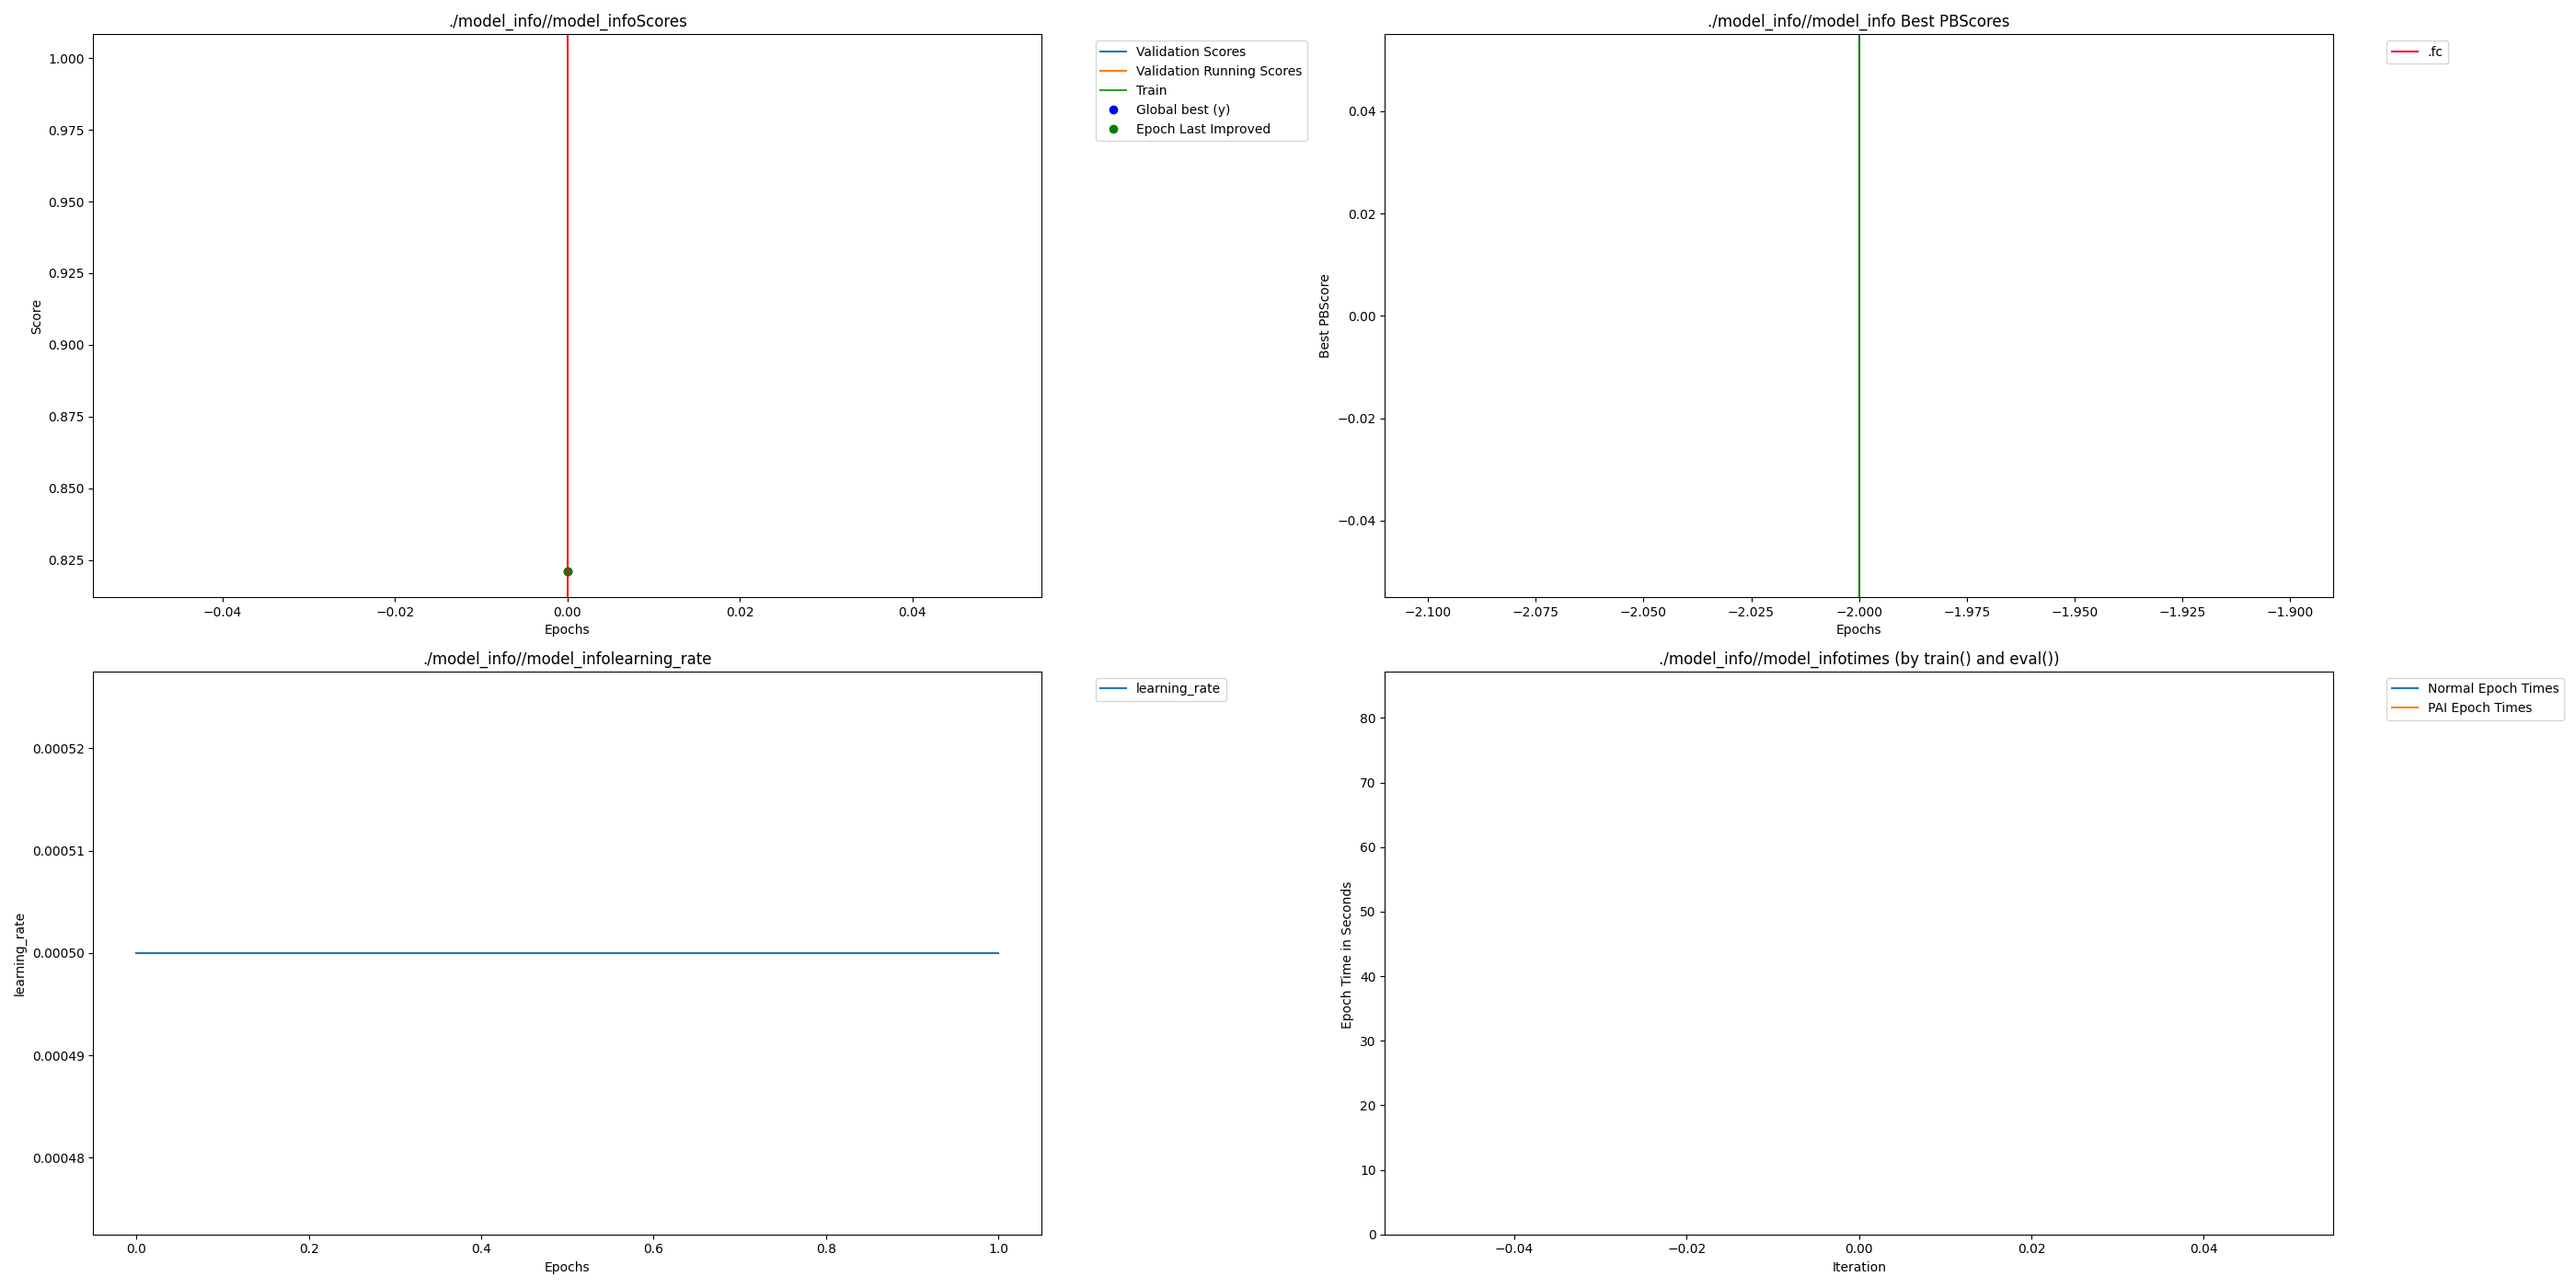
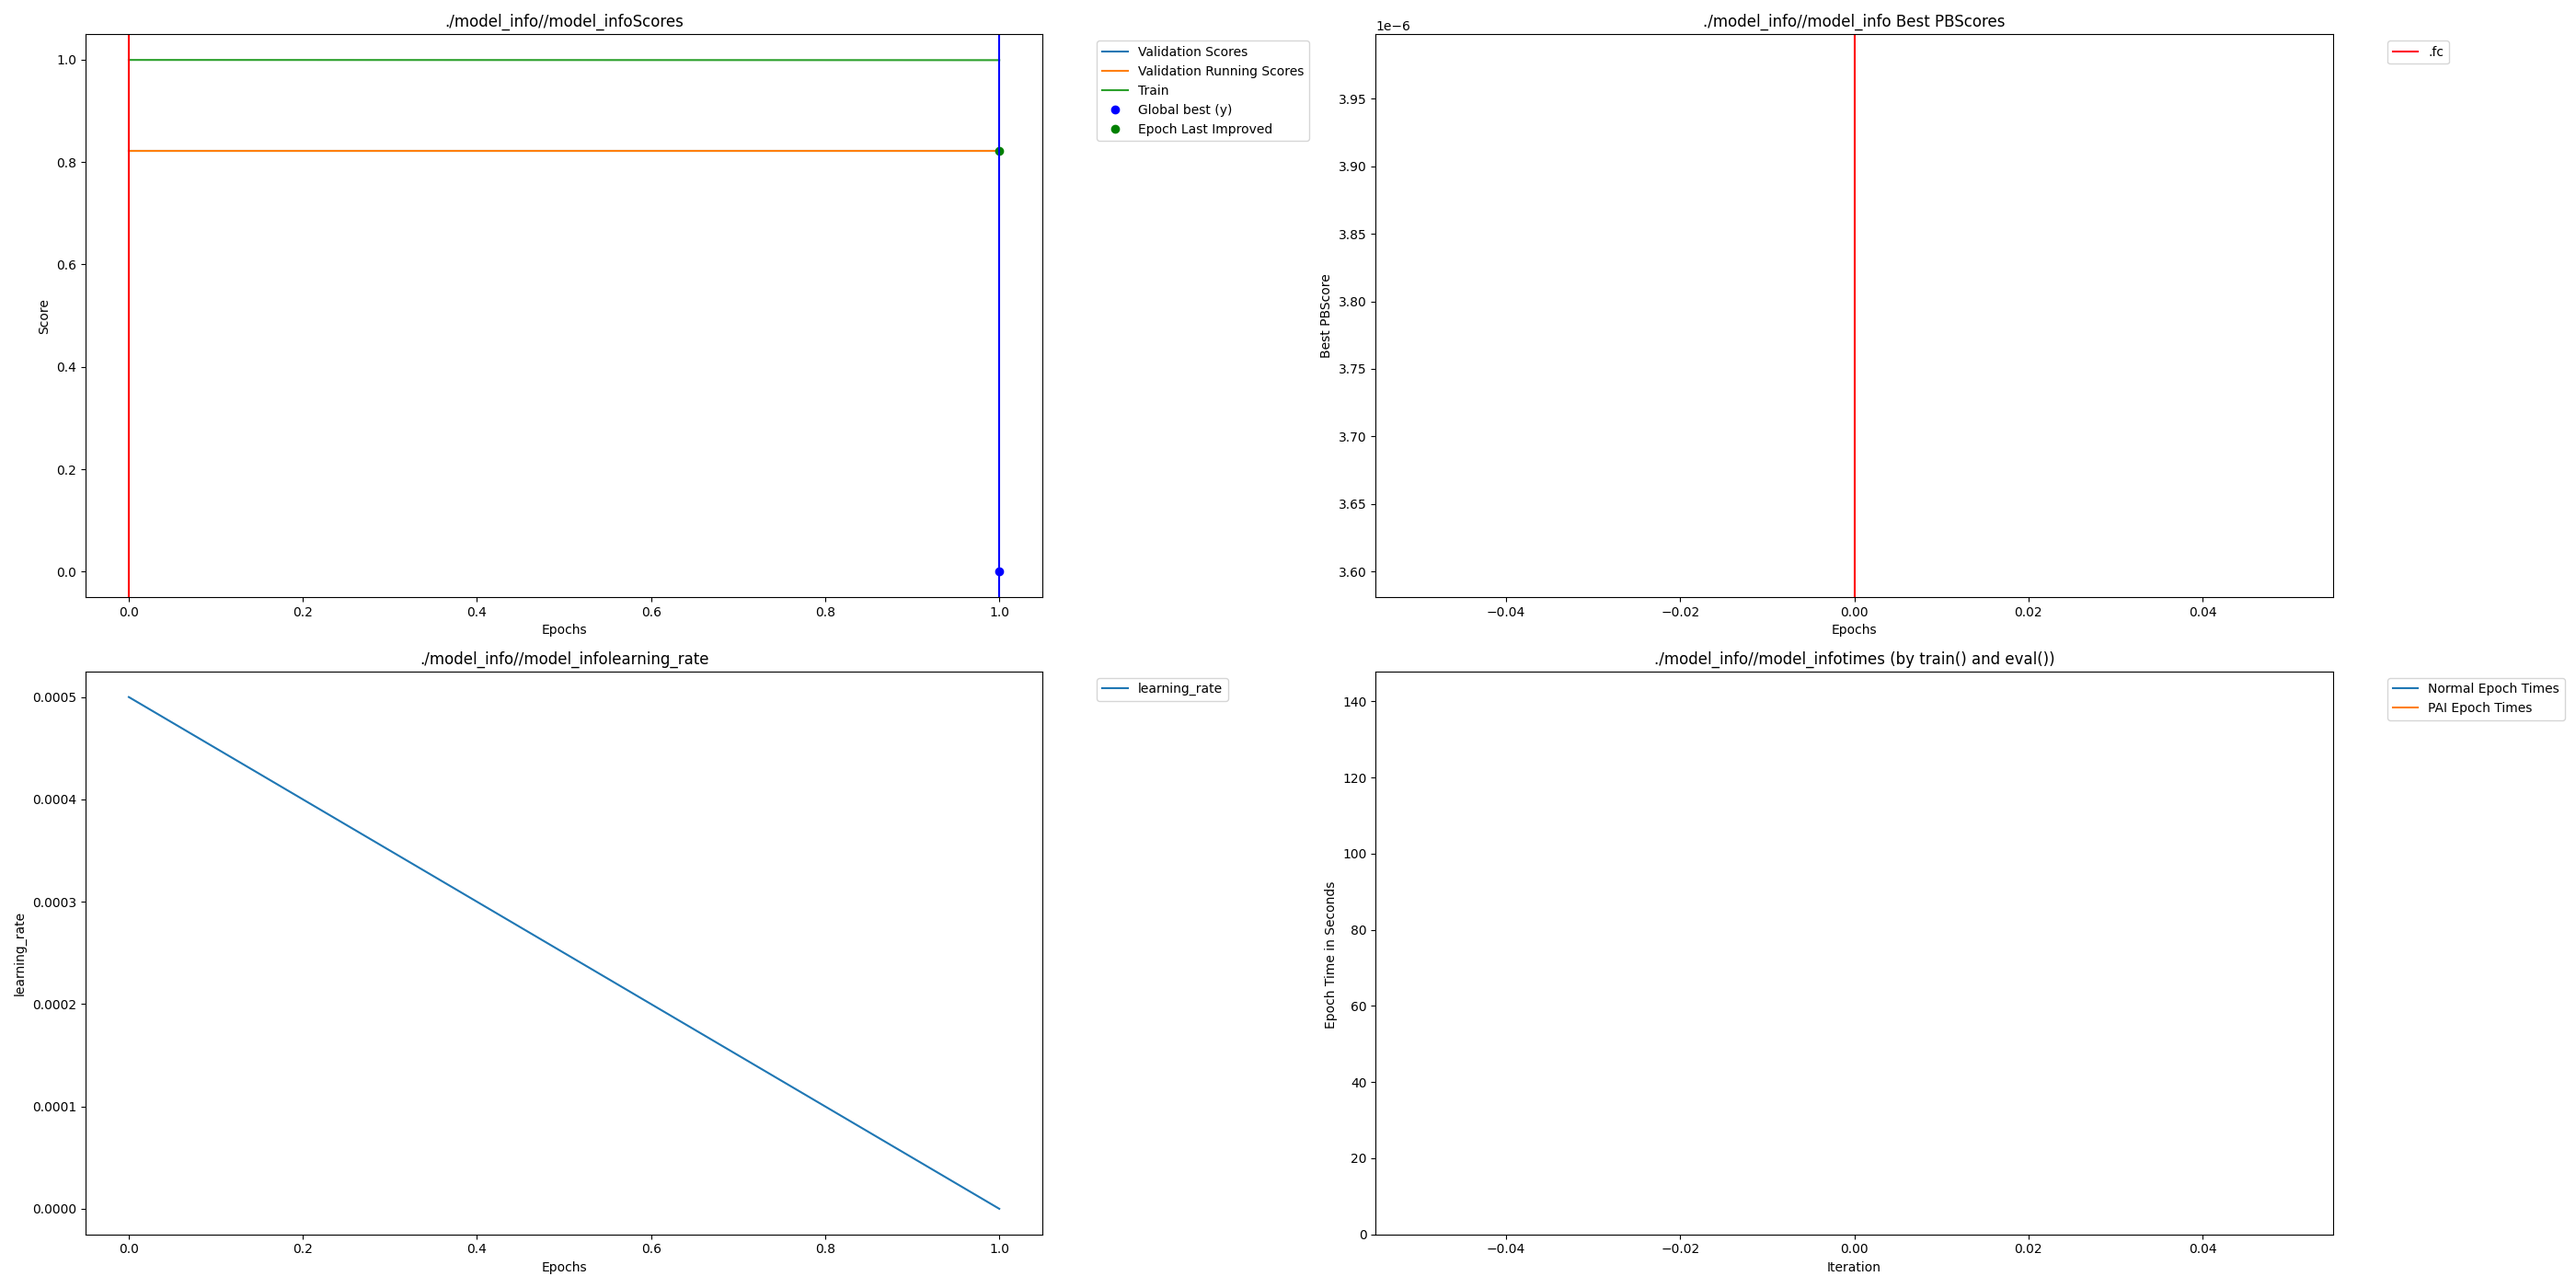
added patched update_learning_rate_method

diff --git a/dendritic_main.py b/dendritic_main.py
@@ -9,6 +9,7 @@ import torch.nn as nn
 import torch.optim as optim
 from dotenv import load_dotenv
 from perforatedai import globals_perforatedai as GPA
+from perforatedai import tracker_perforatedai as tracker_module
 from perforatedai import utils_perforatedai as UPA
 from sklearn.metrics import root_mean_squared_error
 from tqdm import tqdm
@@ -26,6 +27,21 @@ BATCH_SIZE: int = 256
 LEARNING_RATE: float = 0.0005
 EPOCHS: int = 10
 MODEL_INFO_DIR: Path = Path("model_info")
+
+
+def patched_update_learning_rate() -> None:
+    try:
+        learning_rate: float = 0.0
+        for param_group in GPA.pai_tracker.member_vars[
+            "optimizer_instance"
+        ].param_groups:
+            learning_rate = param_group["lr"]
+        GPA.pai_tracker.add_learning_rate(learning_rate)
+    except Exception as e:
+        print(e)
+
+
+tracker_module.update_learning_rate = patched_update_learning_rate
 
 torch.manual_seed(RANDOM_SEED)
 device: torch.device = torch.device("cpu")
